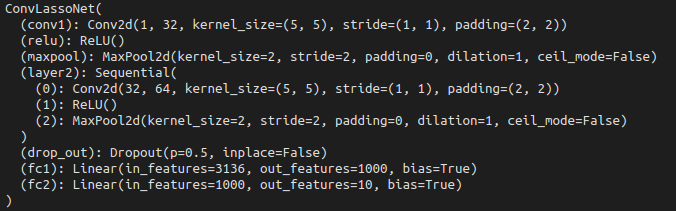
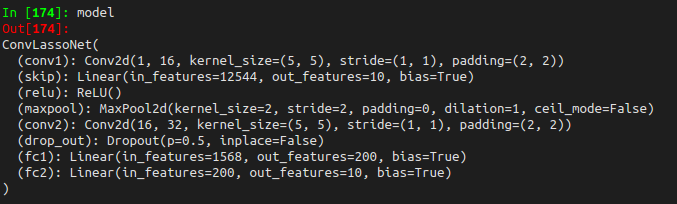
update description

Changed region(s): [[0.0, 0.0, 0.9941, 0.9118], [0.0, 0.9118, 0.0311, 0.9706]]

diff --git a/plots/description.md b/plots/description.md
@@ -120,9 +120,9 @@ So far, the LassoNet constraint was applied directly to the input and is require
 
 ### Mathematical formulation
 
-So this is what we will do: we define a network having a convolutional layer in the beginning. We then apply the LassoNet constraint to the *output* of the convolutions. Mathematically, we write $\gamma_j$ for our $j=1,\dots,m$ filter weights (i.e. the number of output channels is $m$). In our example below, we use 5x5 filters, hence $\gamma_j \in \mathbb{R}^{5\times5}$.
+So this is what we will do: we define a network having two convolutional layers. We then apply the LassoNet constraint to the *output* of the first conv layer (`conv1`), which results in sparsity in the weights of the second conv layer (`conv2`). Mathematically, we write $\Gamma_j$ for the weight matrix of `conv2` corresponding to the $j=1,\dots,m$ output of `conv1`. In our example below, we use 5x5 filters and 16 output channels in `conv1`, hence $\Gamma_j \in \mathbb{R}^{16\times 5\times 5}$.
 
-The skip layer $\theta$ then can be split up into components $\theta_j$ for each of the filters. Each $\theta_j$ is a matrix of dimension `(output dimension of model)  x (output dimension of filter j)`. For the example below, we have 10 label classes, hence `output dimension of model = 10`, and the filters have output of size `28x28`, hence $\theta_j \in \mathbb{R}^{10\times 28^2}$.
+The skip layer $\theta$ then can be split up into components $\theta_j$ for each of the filters of `conv1`. Each $\theta_j$ is a matrix of dimension `(output dimension of model)  x (output dimension of filter j)`. For the example below, we have 10 label classes, hence `output dimension of model = 10`, and the filters have output of size `28x28`, hence $\theta_j \in \mathbb{R}^{10\times 28^2}$.
 
 The LassoNet model becomes
 
@@ -131,48 +131,54 @@ $$
   \text{s.t.} \quad \|\gamma_j\|_\infty \leq M \| \theta_j \|_2. 
 $$
 
-Note that if a filter output is useful as linear predictor for *some* class, then $\|\theta_j\|_2 \neq 0$ and thus the filter weights are allowed to be non-zero. 
+Note that if a filter output is useful as linear predictor for *some* class, then $\|\theta_j\|_2 \neq 0$ and thus the filter outputs are used for the `conv2` layer. All other filter outputs of `conv1` are essentially deactivated by the LassoNet constraint. 
 
 
 ### Example: convolutional LassoNet with MNIST
 
-We use the MNIST dataset to illustrate how Convolutional LassoNet works. We use a (more or less) standard architecture of two convolutional layers together with MaxPooling, Dropout and Linear layers at the end. We train the same architecture (with the same optimizer) *with and without* the LassoNet constraint (applied to the output of the first convolutional layer). Below is an overview of the architecture (without LassoNet):
+We use the MNIST dataset to illustrate how Convolutional LassoNet works. We use a (more or less) standard architecture of two convolutional layers together with MaxPooling, Dropout and Linear layers at the end. We train the same architecture (with the same optimizer) *with and without* the LassoNet constraint (applied to the output of the first convolutional layer). Below is an overview of the architecture:
 
 <img src="conv_architecture.png" alt="Network architecture" width="700"/>
 
-We set `M=20` and `lambda=4` which worked well but could be tuned of course. We first plot training and validation loss of the unconstrained model (denoted by *uncon.*) and the one with LassoNet constraint. They are quite similar (so the additional constraint does not impede learning too much), and interestingely the LassoNet seems to have smaller loss during the first epochs.
+We set `M=1` and `lambda=4`. We first plot training and validation loss of the unconstrained model and the one with LassoNet constraint. They are quite similar (so the additional constraint does not impede learning too much).
 
 <img src="conv_loss.png" alt="Loss history" width="700"/>
 
-Next we show the learned filters of the first convolutional layer for the unconstrained model:
+Let us look at the learned weights of the skip layer, now for the digit 8. These show us, for each filter of `conv1`, what the linear effect of the convolution output is with respect to the probability of the image showing the digit 8.
+
+<img src="conv_skip_8.png" width="700"/>
+
+We now plot the max-norm of each filter of `conv2`, sorted by input channel. We can see nicely that only four input channels are essentially used.
+
+<img src="conv2_filter_norm.png" width="700"/>
+
+Next we show the learned filters of the **first** convolutional layer for the **unconstrained** model:
 
 <img src="conv_filter_unc.png" width="700"/>
 
-Compare this to the learned filters of the ConvLassoNet model:
+Compare this to the learned filters of the **ConvLassoNet** model (order might not be the same):
 
 <img src="conv_filter.png" width="700"/>
 
-Clearly, adding the LassoNet constraint leads to filter sparsity but also to a shrinkage effect (similar as the standard Lasso). Finally, we look at the learned weights of the skip layer, now for the digit 8. These show us, for each filter, what the linear effect of the convolution output is with respect to the probability of the image showing the digit 8.
-
-<img src="conv_skip_8.png" width="700"/>
+Due to LassoNet, we now only need to look at the filters which are actually used in `conv2` and which are 1,3,7,15.
 
 ### Implementation details
 
 Essentially, you only need the following additional code in your PyTorch model in order to use LassoNet:
 
-1) Define a skip layer: we map linearly from the output of the convolutions to the output. Note that the output of the convolutions has dimension `out_channels*h_out*w_out` where `h_out, w_out` depend on the hyperparameters of the convolutional kernels.
+1) Define a skip layer: we map linearly from the output of the convolutions to the output. Note that the output of the convolutions has dimension `out_channels1*h_out*w_out` where `h_out, w_out` depend on the hyperparameters of the convolutional kernels of `conv1`.
 
 ```
-self.skip = nn.Linear(self.out_channels*self.h_out*self.w_out, self.D_out)
+self.skip = nn.Linear(self.out_channels1*self.h_out*self.w_out, self.D_out)
 ```
 
 2) Adapt the `forward`-method: we apply the skip layer and add the result to the result of the remaining nonlinear part at the end.
 
 ```
-z1 = self.skip(out.reshape(-1, self.out_channels*self.h_out*self.w_out))
+z1 = self.skip(out.reshape(-1, self.out_channels1*self.h_out*self.w_out))
 ```
 
-3) Defining a prox method which is executed after `.step()` in the training process. This changes the weights of the convolutional filters and the skip layer inplace. All other parameters are unchanged.
+3) Defining a prox method which is executed after `.step()` in the training process. This changes the weights of the filters of `conv2` and the skip layer inplace. All other parameters are unchanged.
 
 ```
 def prox(self, lr):
